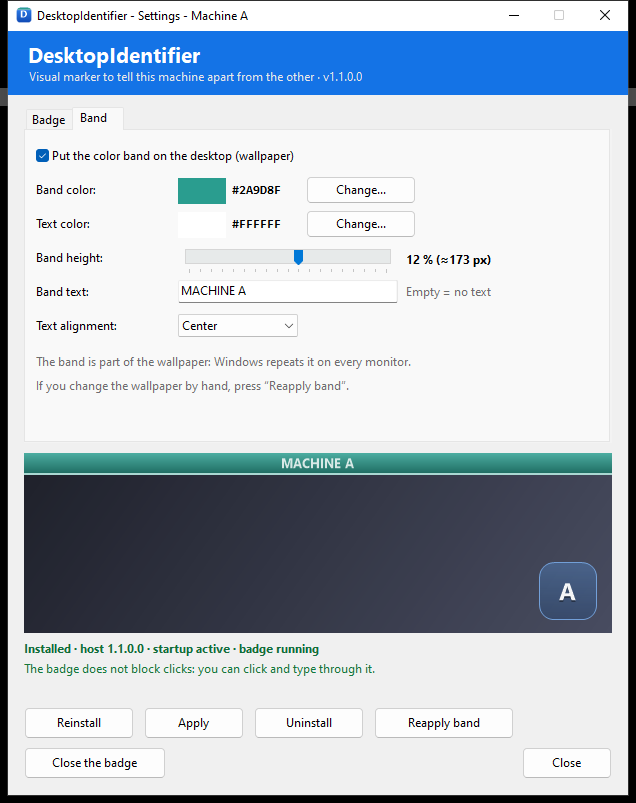
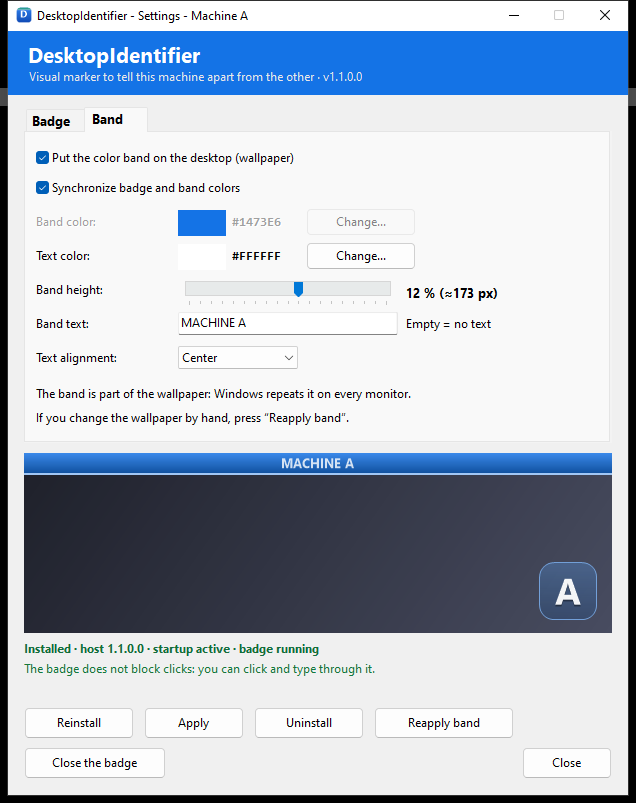
Unlimited badge text, band color sync, bold tabs
Badge and band text no longer have a length limit. The host measures the badge text and widens the window horizontally to fit it (a single character keeps the square shape), and the configurator preview does the same.

Add a "Synchronize badge and band colors" option, on by default and stored as banda.color_sincronizado. While it is checked, the band color follows the badge color and the band color controls are disabled.

The tab captions now use a bold 10 pt font, while the controls inside the tabs keep their normal font. The application title is now "Desktop Identifier".

Update the README, phase docs, plan, screenshots and the localization tables (new sync string, new text hint).

diff --git a/README.md b/README.md
@@ -7,9 +7,10 @@ host:
 
 - **Color band** at the top of the desktop, built into the wallpaper, with
   configurable color, height, text and alignment.
-- **Floating badge** with the text you want (1–4 characters), panel and text
-  color, size, opacities and corners; semi-transparent, always on top and it
-  **does not capture the mouse**: clicks pass through the badge.
+- **Floating badge** with any text you want; the window widens horizontally to
+  fit it. Panel and text color, size, opacities and corners; semi-transparent,
+  always on top and it **does not capture the mouse**: clicks pass through the
+  badge.
 - **Settings** on two tabs (Badge and Band), with a faithful preview and a
   **Reapply band** button.
 - **Guided update** of the startup program and detection of incomplete
@@ -203,6 +204,7 @@ fuente=Segoe UI
 
 [banda]
 activa=1
+color_sincronizado=1
 color=#1473E6
 alto=0.08
 texto=
@@ -212,7 +214,7 @@ alineacion=derecha
 
 | Key | Values | Notes |
 |---|---|---|
-| `cartel.texto` | 1–4 characters | Default `A`; the host adjusts the font size if it does not fit |
+| `cartel.texto` | Any text | Default `A`; the host widens the badge to fit it |
 | `cartel.color` | `#RRGGBB` | Panel and border |
 | `cartel.color_texto` | `#RRGGBB` | Badge text color |
 | `cartel.tamano` | 90–280 | Pixels at 96 dpi; the host scales by DPI |
@@ -223,11 +225,16 @@ alineacion=derecha
 | `cartel.esquinas` | 0.00–0.50 | Fraction of the size |
 | `cartel.fuente` | text | Default `Segoe UI` |
 | `banda.activa` | 0/1 | |
-| `banda.color` | `#RRGGBB` | Independent of the badge color |
+| `banda.color_sincronizado` | 0/1 | 1 = the band color follows the badge color; the band color controls are disabled |
+| `banda.color` | `#RRGGBB` | Used when synchronization is off |
 | `banda.alto` | 0.02–0.20 | Fraction of the screen height |
-| `banda.texto` | 0–20 characters | Empty = no text; different from the badge text |
+| `banda.texto` | Any text | Empty = no text; different from the badge text |
 | `banda.color_texto` | `#RRGGBB` | Band text color |
 | `banda.alineacion` | `derecha`, `centro`, `izquierda` | Band text position |
+
+By default the band color follows the badge panel color. The **Band** tab has
+a *Synchronize badge and band colors* checkbox; while it is checked, the band
+color controls are disabled. Uncheck it to choose a different band color.
 
 Out-of-range values are clamped; a missing or corrupt INI is equivalent to the
 default values. The configurator saves with **atomic writes** (temporary file +
@@ -255,8 +262,9 @@ badge and band, `banda_*` → `[banda]`).
   WS_EX_TOOLWINDOW | WS_EX_NOACTIVATE` and `HWND_TOPMOST`.
 - Drawing with GDI+ into an ARGB bitmap and copy to a **premultiplied 32 bpp
   DIB**, which is what `UpdateLayeredWindow` expects.
-- The badge text is automatically adjusted so that 1–4 characters fit in the
-  panel; the text color comes from `cartel.color_texto`.
+- The badge text is not limited. The window widens horizontally to fit it; a
+  single character keeps the square shape. The text color comes from
+  `cartel.color_texto`.
 - The band text is also reduced if it does not fit in width.
 - 3 s `SetTimer` that reasserts the topmost order and repositions if the work
   area, the monitor or the DPI changed.
@@ -299,8 +307,8 @@ with the Win32 API and the settings use their own record.
 
 | | Size | RAM |
 |---|---|---|
-| Host (Release) | **484,352 B** (~470 KB) | working set ~0.3 MB; private ~3.2 MB |
-| Configurator (Release) | **3,112,448 B** (~3.0 MB) | VCL, only when opened |
+| Host (Release) | **485,888 B** (~470 KB) | working set ~0.3 MB; private ~3.2 MB |
+| Configurator (Release) | **3,115,008 B** (~3.0 MB) | VCL, only when opened |
 | Previous version (single VCL) | ~2.6 MB | ~14.5 MB always in memory |
 
 Without the working-set trim, the host shows ~11 MB of working set due to the

diff --git a/docs/PLAN-DOS-PROGRAMAS.md b/docs/PLAN-DOS-PROGRAMAS.md
@@ -133,7 +133,7 @@ alineacion=derecha
 
 | Key | Type | Range / values | Notes |
 |---|---|---|---|
-| `cartel.texto` | text | 1–4 characters | If empty, `A`. Replaces `letra` |
+| `cartel.texto` | text | any text | If empty, `A`. Replaces `letra` |
 | `cartel.color` | color | `#RRGGBB` | Panel and border color |
 | `cartel.color_texto` | color | `#RRGGBB` | Badge text color |
 | `cartel.tamano` | integer | 90–280 | Pixels at 96 dpi; the host scales by DPI |
@@ -145,9 +145,10 @@ alineacion=derecha
 | `cartel.esquinas` | real | 0.00–0.50 | Corner radius, fraction of the size |
 | `cartel.fuente` | text | — | Default `Segoe UI` |
 | `banda.activa` | 0/1 | — | Whether the band is applied |
-| `banda.color` | color | `#RRGGBB` | Independent of the badge color |
+| `banda.color_sincronizado` | 0/1 | — | 1 = band color follows the badge color (default) |
+| `banda.color` | color | `#RRGGBB` | Used when synchronization is off |
 | `banda.alto` | real | 0.02–0.20 | Fraction of the screen height |
-| `banda.texto` | text | 0–20 characters | Empty = no text |
+| `banda.texto` | text | any text | Empty = no text |
 | `banda.color_texto` | color | `#RRGGBB` | White by default |
 | `banda.alineacion` | text | `derecha`, `centro`, `izquierda` | Text position |
 
@@ -310,7 +311,7 @@ It is the only exception to "do not copy again", and it only happens when updati
 
 | Improvement | INI key | UI | Notes |
 |---|---|---|---|
-| Configurable badge text | `cartel.texto` | Text field (1–4) | Default letter A/B |
+| Configurable badge text | `cartel.texto` | Text field (any length) | Default letter A/B; the badge widens |
 | Badge color | `cartel.color` | Color picker | Already existed |
 | Badge text color | `cartel.color_texto` | Color picker | New, cheap |
 | Size | `cartel.tamano` | Numeric / slider | Already existed |
@@ -452,7 +453,7 @@ items.
 | 2 | Installation | Explicit **Install** button; **Apply** requires being installed |
 | 3 | Uninstall | Dialog with a **Keep the settings** checkbox, checked by default |
 | 4 | Multiple monitors | Replication of the band on all of them is accepted; the badge goes to the chosen monitor |
-| 5 | Badge text | 1–4 characters (phase 2) |
+| 5 | Badge text | Any text; the host window widens horizontally (later change) |
 | 6 | System tray | Host without icon; managed from the configurator (phase 1) |
 | 7 | Wallpaper watchdog | Manual: **Reapply band** button in phase 2 |
 | 8 | Host name | `DesktopIdentifierHost.exe` |

diff --git a/docs/FASE-3.md b/docs/FASE-3.md
@@ -103,8 +103,8 @@ band: the text is reduced and remains complete, with margins and centered.
 
 | | Size | RAM |
 |---|---|---|
-| Host 1.1.0.0 | **484,352 B** | working set ~0.9 MB; private ~3.2 MB |
-| Configurator 1.1.0.0 | **3,112,448 B** | VCL, only when opened |
+| Host 1.1.0.0 | **485,888 B** | working set ~0.9 MB; private ~3.2 MB |
+| Configurator 1.1.0.0 | **3,115,008 B** | VCL, only when opened |
 
 The update replaced the 2.76 MB Debug host with the 440 KB Release one. The
 localization change later added the language tables; see section 7.
@@ -166,12 +166,35 @@ Checks: with the Windows locale set to `es-ES`, `en-US`, `fr-FR`, `it-IT` and
 `de-DE`, the window title changed to `Configuración`, `Settings`, `Paramètres`,
 `Impostazioni` and `Einstellungen`; the Spanish, English, French, German and
 Italian layouts were inspected. The host window title follows the same table.
-The configurator measures **3,112,448 B**; the host **484,352 B**. The version
+The configurator measures **3,115,008 B**; the host **485,888 B**. The version
 remains 1.1.0.0; the installed host was replaced with the new binary.
 
 ---
 
-## 8. Pending (optional)
+## 8. Later changes — text, tabs and colors (27/10/2026)
+
+- Badge and band text no longer have a length limit: the edit fields use
+  `MaxLength = 0` and `AjustesValidos` does not truncate them. The host measures
+  the badge text and widens the window horizontally; a single character keeps
+  the square shape. The preview also grows and is scaled down only when it
+  would not fit in the preview area.
+- The tab captions use a bold, 10 pt font (`TPageControl.Font`); the controls
+  inside the tabs keep their normal 9 pt font, except the colour hex labels and
+  the percentage labels.
+- The **Band** tab has a *Synchronize badge and band colors* checkbox, checked
+  by default. While it is checked, the band colour follows the badge colour and
+  the band colour controls are disabled. The state is stored as
+  `banda.color_sincronizado` (default `1`); the INI keeps the band colour for
+  when synchronization is off.
+
+Checks: a badge text of `A` produced a 170 × 170 window; `DESKTOP-A` produced
+706 × 170 with the full text; the Band tab showed the sync checkbox checked and
+the band colour controls disabled. The configurator measures **3,115,008 B**;
+the host **485,888 B**.
+
+---
+
+## 9. Pending (optional)
 
 - Tray icon or host menu.
 - Band gradient/shadow and color copy between badge and band.

diff --git a/docs/FASE-2.md b/docs/FASE-2.md
@@ -10,8 +10,8 @@
 
 The settings window now has **two tabs**:
 
-- **Badge:** text (1–4 characters), panel color, text color, size, panel
-  opacity, text opacity, corner radius and margins.
+- **Badge:** any text (the window widens horizontally to fit it), panel color,
+  text color, size, panel opacity, text opacity, corner radius and margins.
 - **Band:** active yes/no, color, text color, height, text and alignment
   (right, center, left).
 
@@ -23,8 +23,8 @@ Also:
   the host and the wallpaper generator, with the real text and colors.
 - The **badge text color** and the **band text color** are now really used
   (before they were saved but the badge painted white).
-- The badge text is **automatically adjusted** so that 1–4 characters fit in
-  the panel.
+- The badge window **widens horizontally** to fit any text; a single character
+  keeps the square shape. The band text is reduced if it does not fit in width.
 
 ### New keys
 

diff --git a/docs/FASE-1.md b/docs/FASE-1.md
@@ -145,7 +145,7 @@ configurator does this when applying).
 
 - Band color, height and text; badge and band text color.
 - **Reapply band** button if the user changes the wallpaper by hand.
-- Badge text of up to 4 characters with size adjustment.
+- Badge text of any length; the host window widens horizontally to fit it.
 - Consider a tray icon or host menu.
 - Phase 3: visible version, repair of orphan installations and guided update.
 
